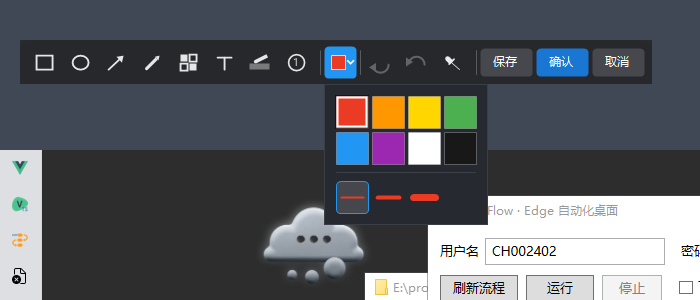
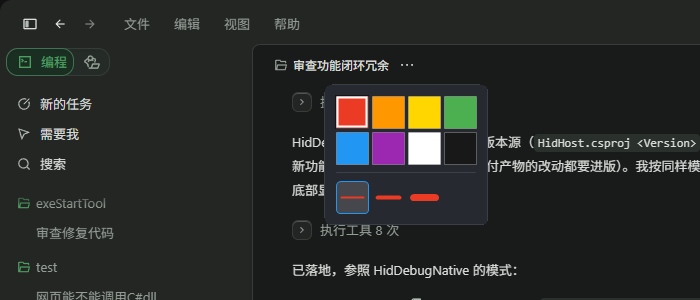
feat(ui): 新增无边框窗口圆角统一实现并兼容 Win10
- 新增 WindowChrome 统一处理无边框窗口圆角，Win11 走 DWM 原生、Win10 退回 Region 硬裁剪
- 结果窗口、样式弹层、翻译窗口改用 WindowChrome 挂载，移除各自重复的 DWM 调用
- 圆角在句柄创建、尺寸变化与 DPI 变化时重建并释放旧 Region，最大化时取消裁剪
- 补充 AGENTS.md 与界面评审文档说明，并更新圆角相关截图
- 测试工程纳入 WindowChrome 源文件以做编译验证

diff --git a/src/WindowChrome.cs b/src/WindowChrome.cs
@@ -1,0 +1,93 @@
+namespace SnipasteOcr;
+
+/// <summary>
+/// 无边框窗口的圆角。
+///
+/// Win11 有原生的 8px 窗口圆角, 但 FormBorderStyle.None 的窗口默认不参与,
+/// 需要显式声明 <c>DWMWA_WINDOW_CORNER_PREFERENCE</c>; 该属性带抗锯齿, 观感最好。
+///
+/// Win10 没有这个能力 (DwmSetWindowAttribute 直接失败, 窗口仍是直角)。为了让
+/// "圆角"这条视觉语言在 Win10 上也成立, 这里退回 <see cref="Form.Region"/> 硬裁剪:
+/// 边缘是 1px 台阶而不是抗锯齿曲线, 但在 8px 半径下几乎看不出来;
+/// Region 只在窗口尺寸/DPI 变化时重建, 不参与每次重绘。
+///
+/// 不用于贴图窗口: 贴图展示的是截图原像素, 圆角会把图片四角裁掉。
+/// </summary>
+internal static class WindowChrome
+{
+    /// <summary>圆角半径 (逻辑像素, 与 Win11 的默认值一致)</summary>
+    public const int Radius = 8;
+
+    /// <summary>已挂过事件的窗体 (用弱表而不是 Tag, 避免占用业务字段)</summary>
+    private static readonly System.Runtime.CompilerServices.ConditionalWeakTable<Form, object> Attached = new();
+
+    /// <summary>当前系统是否原生支持窗口圆角 (Win11 = build 22000+)</summary>
+    public static bool NativeRoundedCorners => Environment.OSVersion.Version.Build >= 22000;
+
+    /// <summary>
+    /// 给无边框窗体挂上圆角: 句柄创建、尺寸变化、DPI 变化各应用一次。
+    /// 幂等, 可重复调用; 同一个窗体只注册一轮事件。
+    /// </summary>
+    public static void Attach(Form form)
+    {
+        // 只处理无边框窗体: 带边框的窗口由系统绘制非客户区, 在 Win10 上用 Region 硬裁
+        // 会把边框线一起切掉 (四角像缺了一块), 而 Win11 本来就会给普通窗口自动加圆角。
+        if (form.FormBorderStyle != FormBorderStyle.None)
+            return;
+
+        if (!Attached.TryGetValue(form, out _))
+        {
+            Attached.Add(form, new object());
+            form.HandleCreated += (_, _) => Apply(form);
+            form.SizeChanged += (_, _) =>
+            {
+                // Win11 由 DWM 维护, 尺寸变化不需要我们插手
+                if (!NativeRoundedCorners)
+                    Apply(form);
+            };
+            form.DpiChanged += (_, _) => Apply(form);
+        }
+
+        if (form.IsHandleCreated)
+            Apply(form);
+    }
+
+    /// <summary>按当前尺寸与 DPI 应用圆角 (最大化时取消, 避免四角被切)</summary>
+    private static void Apply(Form form)
+    {
+        if (!form.IsHandleCreated || form.IsDisposed)
+            return;
+
+        if (form.WindowState == FormWindowState.Maximized)
+        {
+            form.Region?.Dispose();
+            form.Region = null;
+            return;
+        }
+
+        if (NativeRoundedCorners)
+        {
+            Native.Dwmapi.TryRoundCorners(form.Handle);
+            return;
+        }
+
+        int radius = (int)Math.Round(Radius * form.DeviceDpi / 96f);
+        using var path = RoundedPath(new Rectangle(0, 0, form.Width, form.Height), radius);
+        var region = new Region(path);
+        var previous = form.Region;
+        form.Region = region;
+        previous?.Dispose();
+    }
+
+    private static System.Drawing.Drawing2D.GraphicsPath RoundedPath(Rectangle r, int radius)
+    {
+        int d = Math.Max(1, Math.Min(radius * 2, Math.Min(r.Width, r.Height)));
+        var path = new System.Drawing.Drawing2D.GraphicsPath();
+        path.AddArc(r.Left, r.Top, d, d, 180, 90);
+        path.AddArc(r.Right - d, r.Top, d, d, 270, 90);
+        path.AddArc(r.Right - d, r.Bottom - d, d, d, 0, 90);
+        path.AddArc(r.Left, r.Bottom - d, d, d, 90, 90);
+        path.CloseFigure();
+        return path;
+    }
+}

diff --git a/src/OcrResultForm.cs b/src/OcrResultForm.cs
@@ -171,6 +171,8 @@ public sealed class OcrResultForm : Form
 
         BuildToolStrip();
         Controls.Add(_toolStrip);
+        // 无边框窗口的圆角: Win11 走 DWM, Win10 退回 Region 裁剪 (见 WindowChrome)
+        WindowChrome.Attach(this);
         // 最小宽度 = 工具栏完整宽度, 小截图时按钮不会被挤掉/折叠进溢出菜单
         MinimumSize = new Size(Math.Max(320, _toolStrip.GetPreferredSize(new Size(0, _toolStrip.Height)).Width + 16), 140);
         // 初始大小: 图片原始尺寸 (1:1 显示) + 工具栏
@@ -511,8 +513,6 @@ public sealed class OcrResultForm : Form
     protected override void OnHandleCreated(EventArgs e)
     {
         base.OnHandleCreated(e);
-        // 无边框窗口默认不参与 Win11 的系统圆角, 显式声明一次 (Win10 静默忽略)
-        Dwmapi.TryRoundCorners(Handle);
         _dpi = DeviceDpi / 96f;
         if (!_dpiInitialized)
         {

diff --git a/src/Annotations/StylePopupForm.cs b/src/Annotations/StylePopupForm.cs
@@ -60,17 +60,12 @@ internal sealed class StylePopupForm : Form
             ControlStyles.OptimizedDoubleBuffer,
             true);
         ClientSize = PanelSize;
+        // 与工具栏同一套圆角 (Win11 原生 / Win10 Region 裁剪)
+        WindowChrome.Attach(this);
     }
 
     /// <summary>不抢焦点: 覆盖层必须继续接收 1..8 / Esc 等键盘操作</summary>
     protected override bool ShowWithoutActivation => true;
-
-    protected override void OnHandleCreated(EventArgs e)
-    {
-        base.OnHandleCreated(e);
-        // 与工具栏/结果窗口同一套 8px 圆角 (Win10 忽略)
-        SnipasteOcr.Native.Dwmapi.TryRoundCorners(Handle);
-    }
 
     protected override CreateParams CreateParams
     {

diff --git a/src/TranslateForm.cs b/src/TranslateForm.cs
@@ -94,13 +94,6 @@ internal sealed class TranslateForm : Form
     /// 居中到 owner (结果窗口) 所在屏的工作区; 没有 owner 时用光标所在屏。
     /// 多屏下不能按主屏居中, 否则副屏截图时译文窗口会跑到另一块屏。
     /// </summary>
-    protected override void OnHandleCreated(EventArgs e)
-    {
-        base.OnHandleCreated(e);
-        // 无边框/自绘窗口不参与 Win11 系统圆角, 显式声明 (Win10 忽略)
-        SnipasteOcr.Native.Dwmapi.TryRoundCorners(Handle);
-    }
-
     protected override void OnLoad(EventArgs e)
     {
         base.OnLoad(e);

diff --git a/AGENTS.md b/AGENTS.md
@@ -43,6 +43,7 @@ src/                       产品代码 (唯一的出货工程, 也是唯一的 
   SnipMagnifierControl.cs  放大镜子控件 (显示层; 不参与 RenderResult)
   UiTheme.cs               界面配色唯一来源 (强调蓝/深色底; 改主题只改这里)
   DialogTheme.cs           设置对话框的深色外观 (与主界面同一套 token; 含深色标题栏)
+  WindowChrome.cs          无边框窗口圆角 (Win11 原生 / Win10 Region 兜底; 贴图窗口不用)
   OcrPan.cs                结果窗口高倍缩放的平移夹紧 (纯函数; 图片覆盖视口, 小图居中)
   OcrConfidence.cs         置信度展示规则 (低分阈值/百分比格式; 只提示不过滤)
   TranslateClient.cs       DeepSeek 翻译客户端 (请求/解析/错误映射; JSON 源生成)
@@ -257,6 +258,10 @@ dotnet run --project tools/DriveTest -- <SnipasteOcr.exe 完整路径>
   8 个工具 + 样式 + 撤销组 + 3 个文字按钮 = **632px** (上限 650)。这份空间是靠把颜色与线宽
   收进「样式」弹层 (106px → 32px) 换来的, 不要再靠缩按钮/缩间距去塞新东西;
   真要加常驻控件, 先做分组或溢出菜单。
+- **无边框窗口的圆角只有 `WindowChrome` 一处**: Win11 走 DWM (`DWMWA_WINDOW_CORNER_PREFERENCE`),
+  Win10 没有该能力, 退回 `Form.Region` 硬裁剪 (8px, 边缘是 1px 台阶)。Region 必须在
+  **尺寸/DPI 变化时重建并释放旧对象**; 只对 `FormBorderStyle.None` 生效 (带边框窗口硬裁会把边框线切掉)。
+  **贴图窗口不要用**: 它展示的是截图原像素, 圆角会把图片四角裁掉。
 - **样式弹层的关闭必须成套**: 绘制选中态看 `StylePopupOpen`; Esc 由覆盖层先关它
   (否则一次 Esc 会把整个截图关掉); 点到别处由覆盖层 `OnMouseDown` 关; 工具栏其它动作
   与 `SetTool` 也要关。弹层是 `WS_EX_NOACTIVATE` 的顶层窗口, **`Deactivate` 不会触发**,

diff --git a/docs/ui-layout-review-20261125.md b/docs/ui-layout-review-20261125.md
@@ -28,6 +28,11 @@
 > 识别中/空/失败三态、状态栏缩短、两套设置对话框转深色（含深色标题栏）、无边框窗口 8px 圆角。
 > 仍未做：无障碍名字与焦点环（P2-15）、150% DPI 实机验证（P2-16）、首启 3 秒教学提示。
 > 验证：离线自检 610 项全绿；交互自检 215 项全绿。
+>
+> **关于窗口圆角**：本机是 Windows 10 (19045)，没有 DWM 窗口圆角能力，`DwmSetWindowAttribute`
+> 直接失败。因此新增 `WindowChrome`：Win11 走原生 8px 抗锯齿圆角，Win10 退回 `Form.Region`
+> 硬裁剪（8px，边缘有 1px 台阶）。只对无边框窗口生效；贴图窗口**不做**圆角 —— 那会把截图的
+> 四个角裁掉。结果窗口圆角会裁掉图片四角各 8px（仅显示层，复制/保存的原图不受影响）。
 
 ---
 
@@ -435,7 +440,7 @@ Danger         #F05252    Warning       #FF9800    Success #4CAF50
 | 空闲状态栏 | 约 430 px 长句 | `4 块 · 单击复制` |
 | 识别过程 | 只有右下角一行小字 | 中央胶囊：进行中（带进度条）/ 无文字 / 失败可点重试 |
 | 设置对话框 | 系统浅色 | 深色内容 + 深色标题栏 |
-| 圆角 | 6 / 5 / 直角混用 | 浮层与窗口 8，控件 4 |
+| 圆角 | 6 / 5 / 直角混用 | 浮层与控件 8 / 4；无边框窗口 8（Win11 原生，Win10 Region 兜底） |
 
 ![改后工具栏（2 倍）](ui-layout-review-20261125/toolbar-after-2x.png)
 

diff --git a/.workbuddy/memory/2026-11-25.md b/.workbuddy/memory/2026-11-25.md
@@ -76,3 +76,11 @@ AOT publish：MSVC 环境（VS2017 BuildTools + vcvarsall）下 native 链接通
 - 测试：ToolbarCheck 40→43 项，离线总数 575→610（含顶层 32 项），交互 215。
 - 验证：离线全绿；交互两次 215/215（一次 1 项 IME 偶发失败，复跑通过）；AOT publish 成功且产物可启动（171 MB）。
 - 未做：Accessible* 名字/焦点环、150% DPI 实机验证、首启 3 秒教学。
+
+## 窗口圆角（追加）
+
+本机是 **Windows 10 19045**，`DwmSetWindowAttribute(DWMWA_WINDOW_CORNER_PREFERENCE)` 无效（DWM 圆角是 Win11 才有的能力）。
+新增 `WindowChrome`：Win11 → DWM 原生 8px 抗锯齿；Win10 → `Form.Region` 硬裁剪（8px，1px 台阶），在 HandleCreated/SizeChanged/DpiChanged 重建并释放旧 Region。
+只对 `FormBorderStyle.None` 生效（带边框窗口硬裁会切掉边框线）；贴图窗口不做（会裁掉截图四角）。
+结果窗口圆角会裁掉图片四角各 8px（仅显示层，复制/保存不受影响）。
+验证：离线 610、交互 215（有一次 4 项真实输入偶发失败，复跑全绿）、publish 通过、产物可启动。
